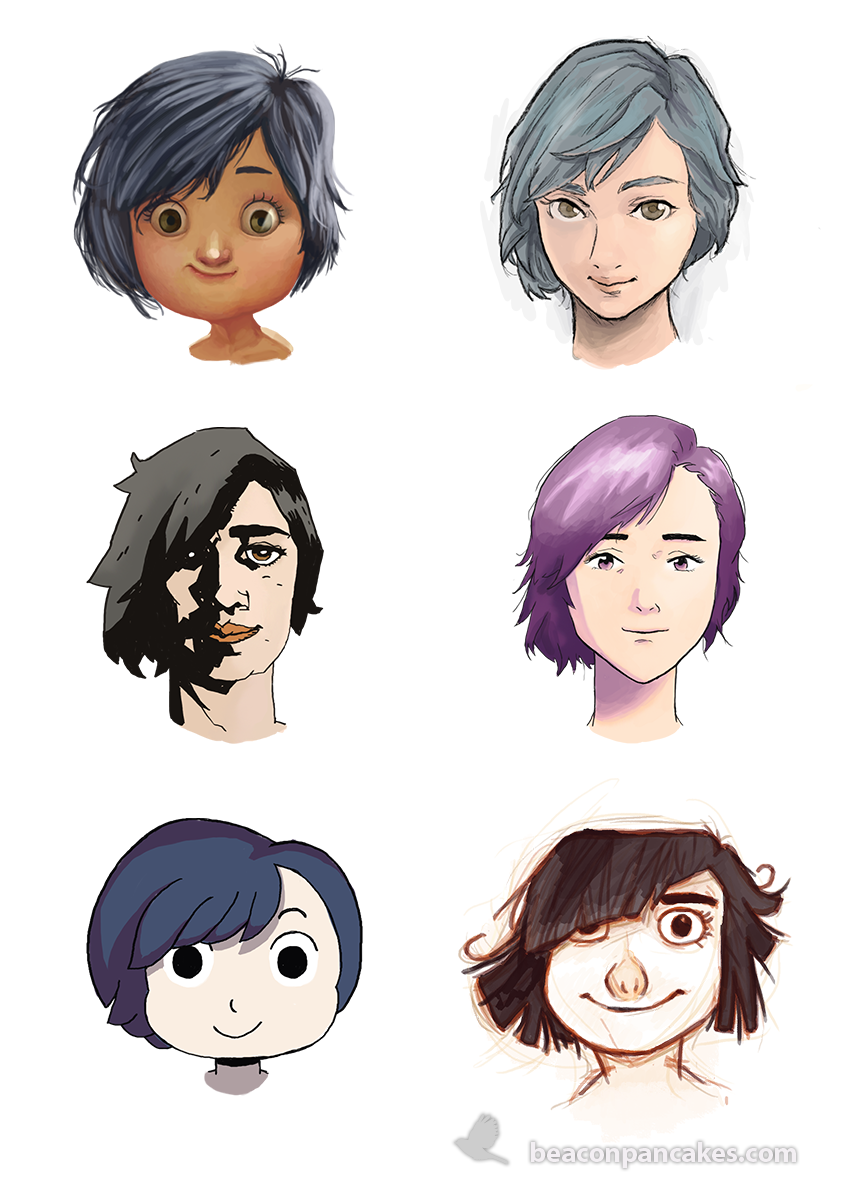
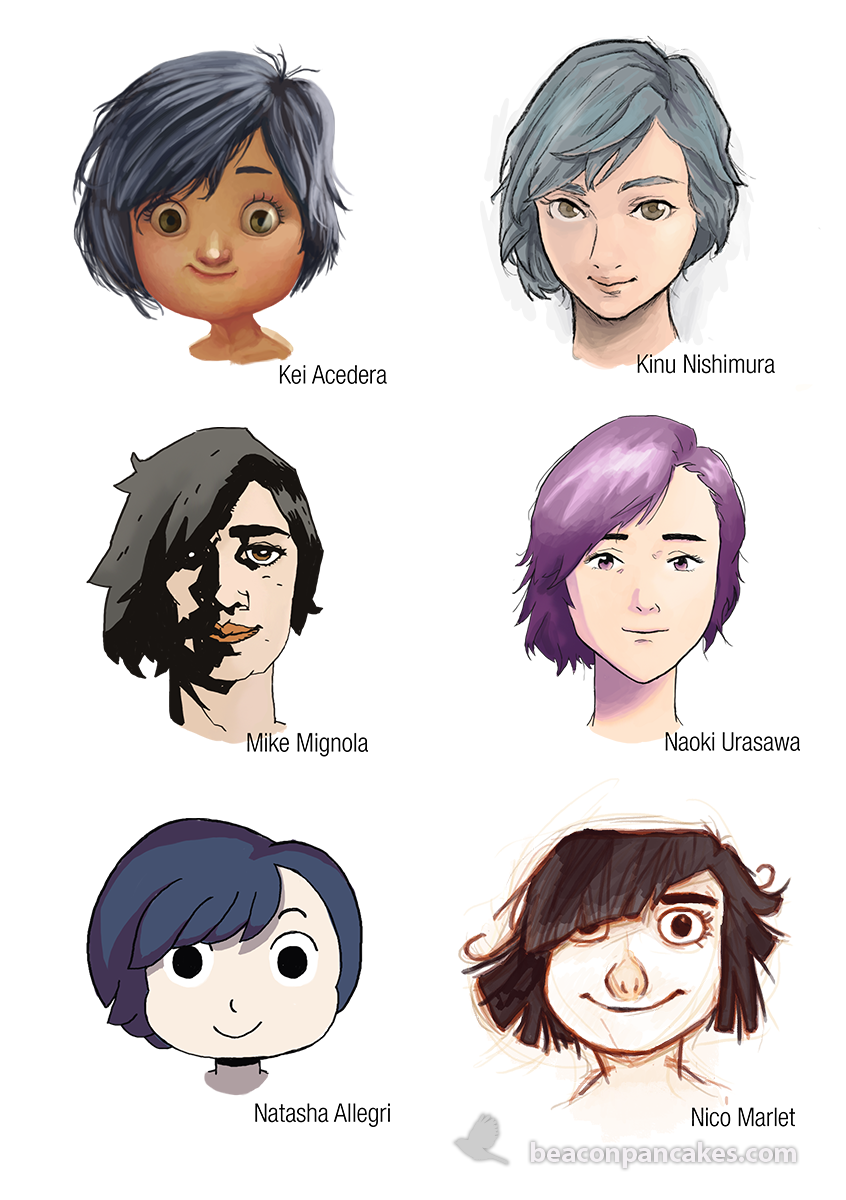
Updated the last project
Added the names of the artists who was used as references

diff --git a/docs/projects/styles-test/index.html b/docs/projects/styles-test/index.html
@@ -12,9 +12,9 @@
     <meta property="og:type" content="article" />
     <meta property="og:title" content="Styles Test" />
     <meta property="og:description" content="&lt;p&gt;I decided to take a challenge, so I searched among my favorite 2D artists and then I tried to imitate their art styles. And who is best model but myself? How could these artists had designed my own face and also my personality? I usually don&amp;#39;t make self-portraits, but the idea was really funny. And I have enjoyed a lot!&lt;/p&gt;
-    &lt;p&gt;So, for the first days, I am going to put this here but without the names of the artists. It is really hard to find all the names, but I am sure that some people would feel happy to try.&lt;/p&gt;
-    &lt;p&gt;&lt;strong&gt;Hint&lt;/strong&gt;: the artists come from EEUU, Canada, France and Japan, and there are five women.&lt;/p&gt;
-    &lt;p&gt;Good luck!&lt;/p&gt;
+    &lt;p&gt;For the first days, I published the drawings without the names of the artists, so people could try to guess the names of the artists. Now, everybody can see them and go to check their awesome work.&lt;/p&gt;
+    &lt;p&gt;&lt;strong&gt;Fun Fact&lt;/strong&gt;: Artists come from EEUU, Canada, France and Japan, and there are five women!&lt;/p&gt;
+    &lt;p&gt;Hope you like them!&lt;/p&gt;
     " />
     <meta property="og:url" content="https://beaconpancakes.com/projects/styles-test" />
     <meta property="og:image" content="http://beaconpancakes.com/imgs/thumbs/StylesTest00.png" />
@@ -80,9 +80,9 @@
         <div id="project-detail-wrapper">
           <h3>Styles Test</h3>
           <p>I decided to take a challenge, so I searched among my favorite 2D artists and then I tried to imitate their art styles. And who is best model but myself? How could these artists had designed my own face and also my personality? I usually don&#39;t make self-portraits, but the idea was really funny. And I have enjoyed a lot!</p>
-<p>So, for the first days, I am going to put this here but without the names of the artists. It is really hard to find all the names, but I am sure that some people would feel happy to try.</p>
-<p><strong>Hint</strong>: the artists come from EEUU, Canada, France and Japan, and there are five women.</p>
-<p>Good luck!</p>
+<p>For the first days, I published the drawings without the names of the artists, so people could try to guess the names of the artists. Now, everybody can see them and go to check their awesome work.</p>
+<p><strong>Fun Fact</strong>: Artists come from EEUU, Canada, France and Japan, and there are five women!</p>
+<p>Hope you like them!</p>
 
           <h4>Tools</h4>
           <img src="/imgs/icons/tools/photoshop.png" alt="photoshop"

diff --git a/src/projects/0793-StylesTest.md b/src/projects/0793-StylesTest.md
@@ -27,8 +27,8 @@ tools:
 
 I decided to take a challenge, so I searched among my favorite 2D artists and then I tried to imitate their art styles. And who is best model but myself? How could these artists had designed my own face and also my personality? I usually don't make self-portraits, but the idea was really funny. And I have enjoyed a lot!
 
-So, for the first days, I am going to put this here but without the names of the artists. It is really hard to find all the names, but I am sure that some people would feel happy to try.
+For the first days, I published the drawings without the names of the artists, so people could try to guess the names of the artists. Now, everybody can see them and go to check their awesome work.
 
-**Hint**: the artists come from EEUU, Canada, France and Japan, and there are five women.
+**Fun Fact**: Artists come from EEUU, Canada, France and Japan, and there are five women!
 
-Good luck!
+Hope you like them!
